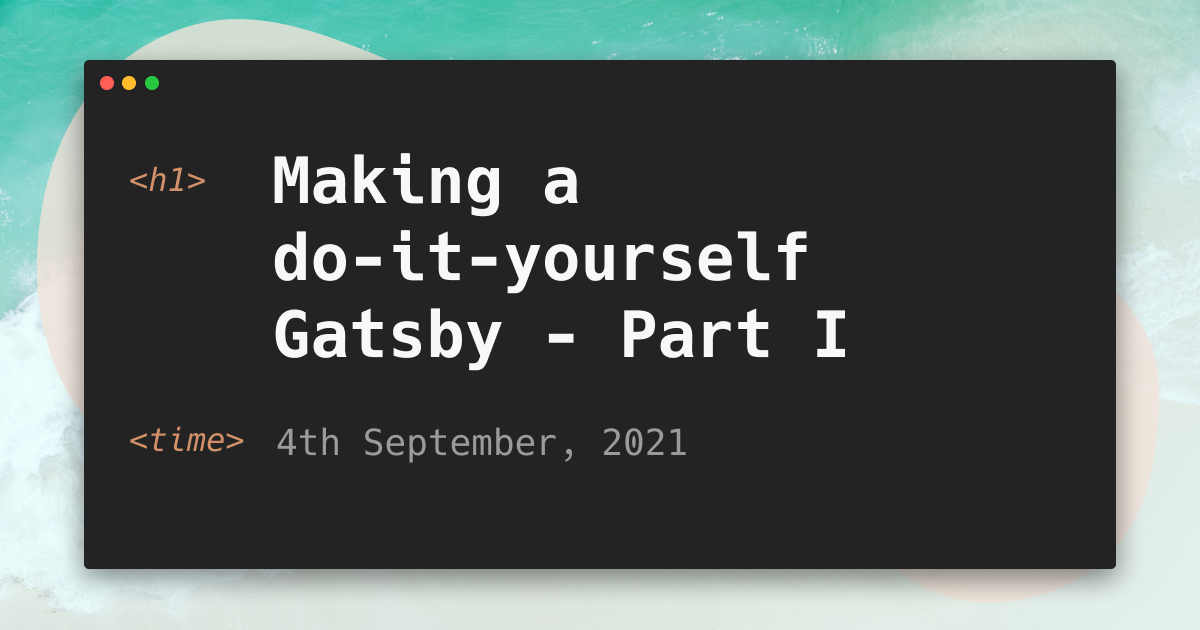
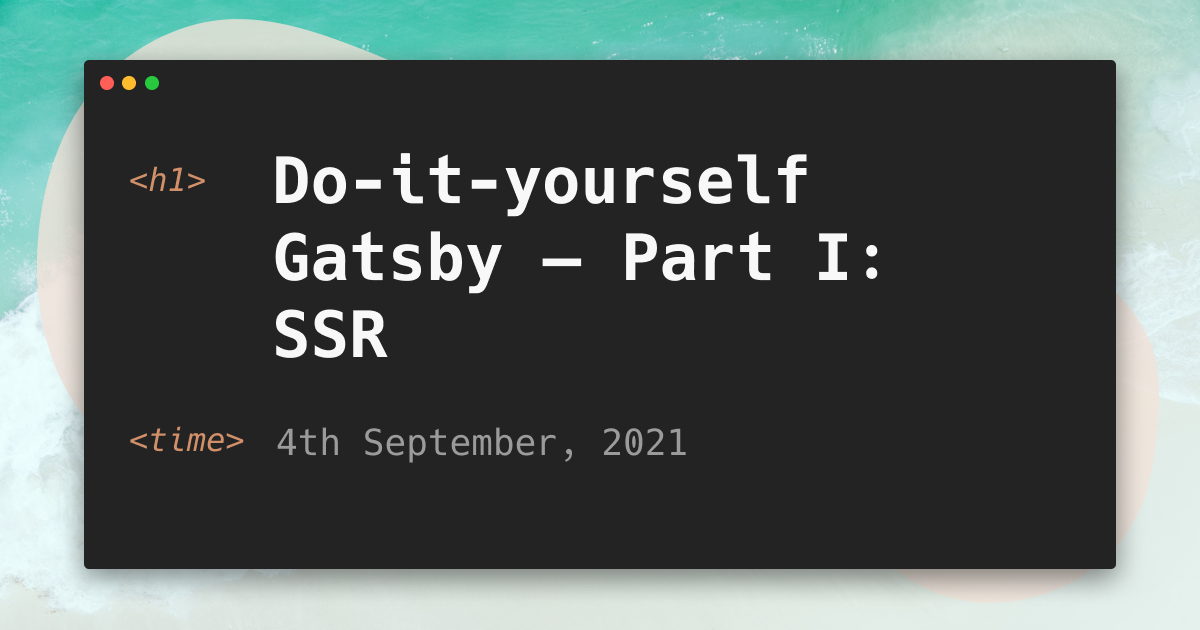
Content

diff --git a/README.md b/README.md
@@ -93,6 +93,15 @@ Production build with approximate times:
 * Initial page load vs state update
 * JS disabled
 
+### Editing an existing post
+
+* Date?
+* Title changed?
+
+    * Update slug
+    * Add Netlify redirect. ID number is meant to be permanent, while the slug
+    * Update cover image
+    * Test with `squint http://localhost:8080 https://kimmo.blog`
 
 ## Tips
 
